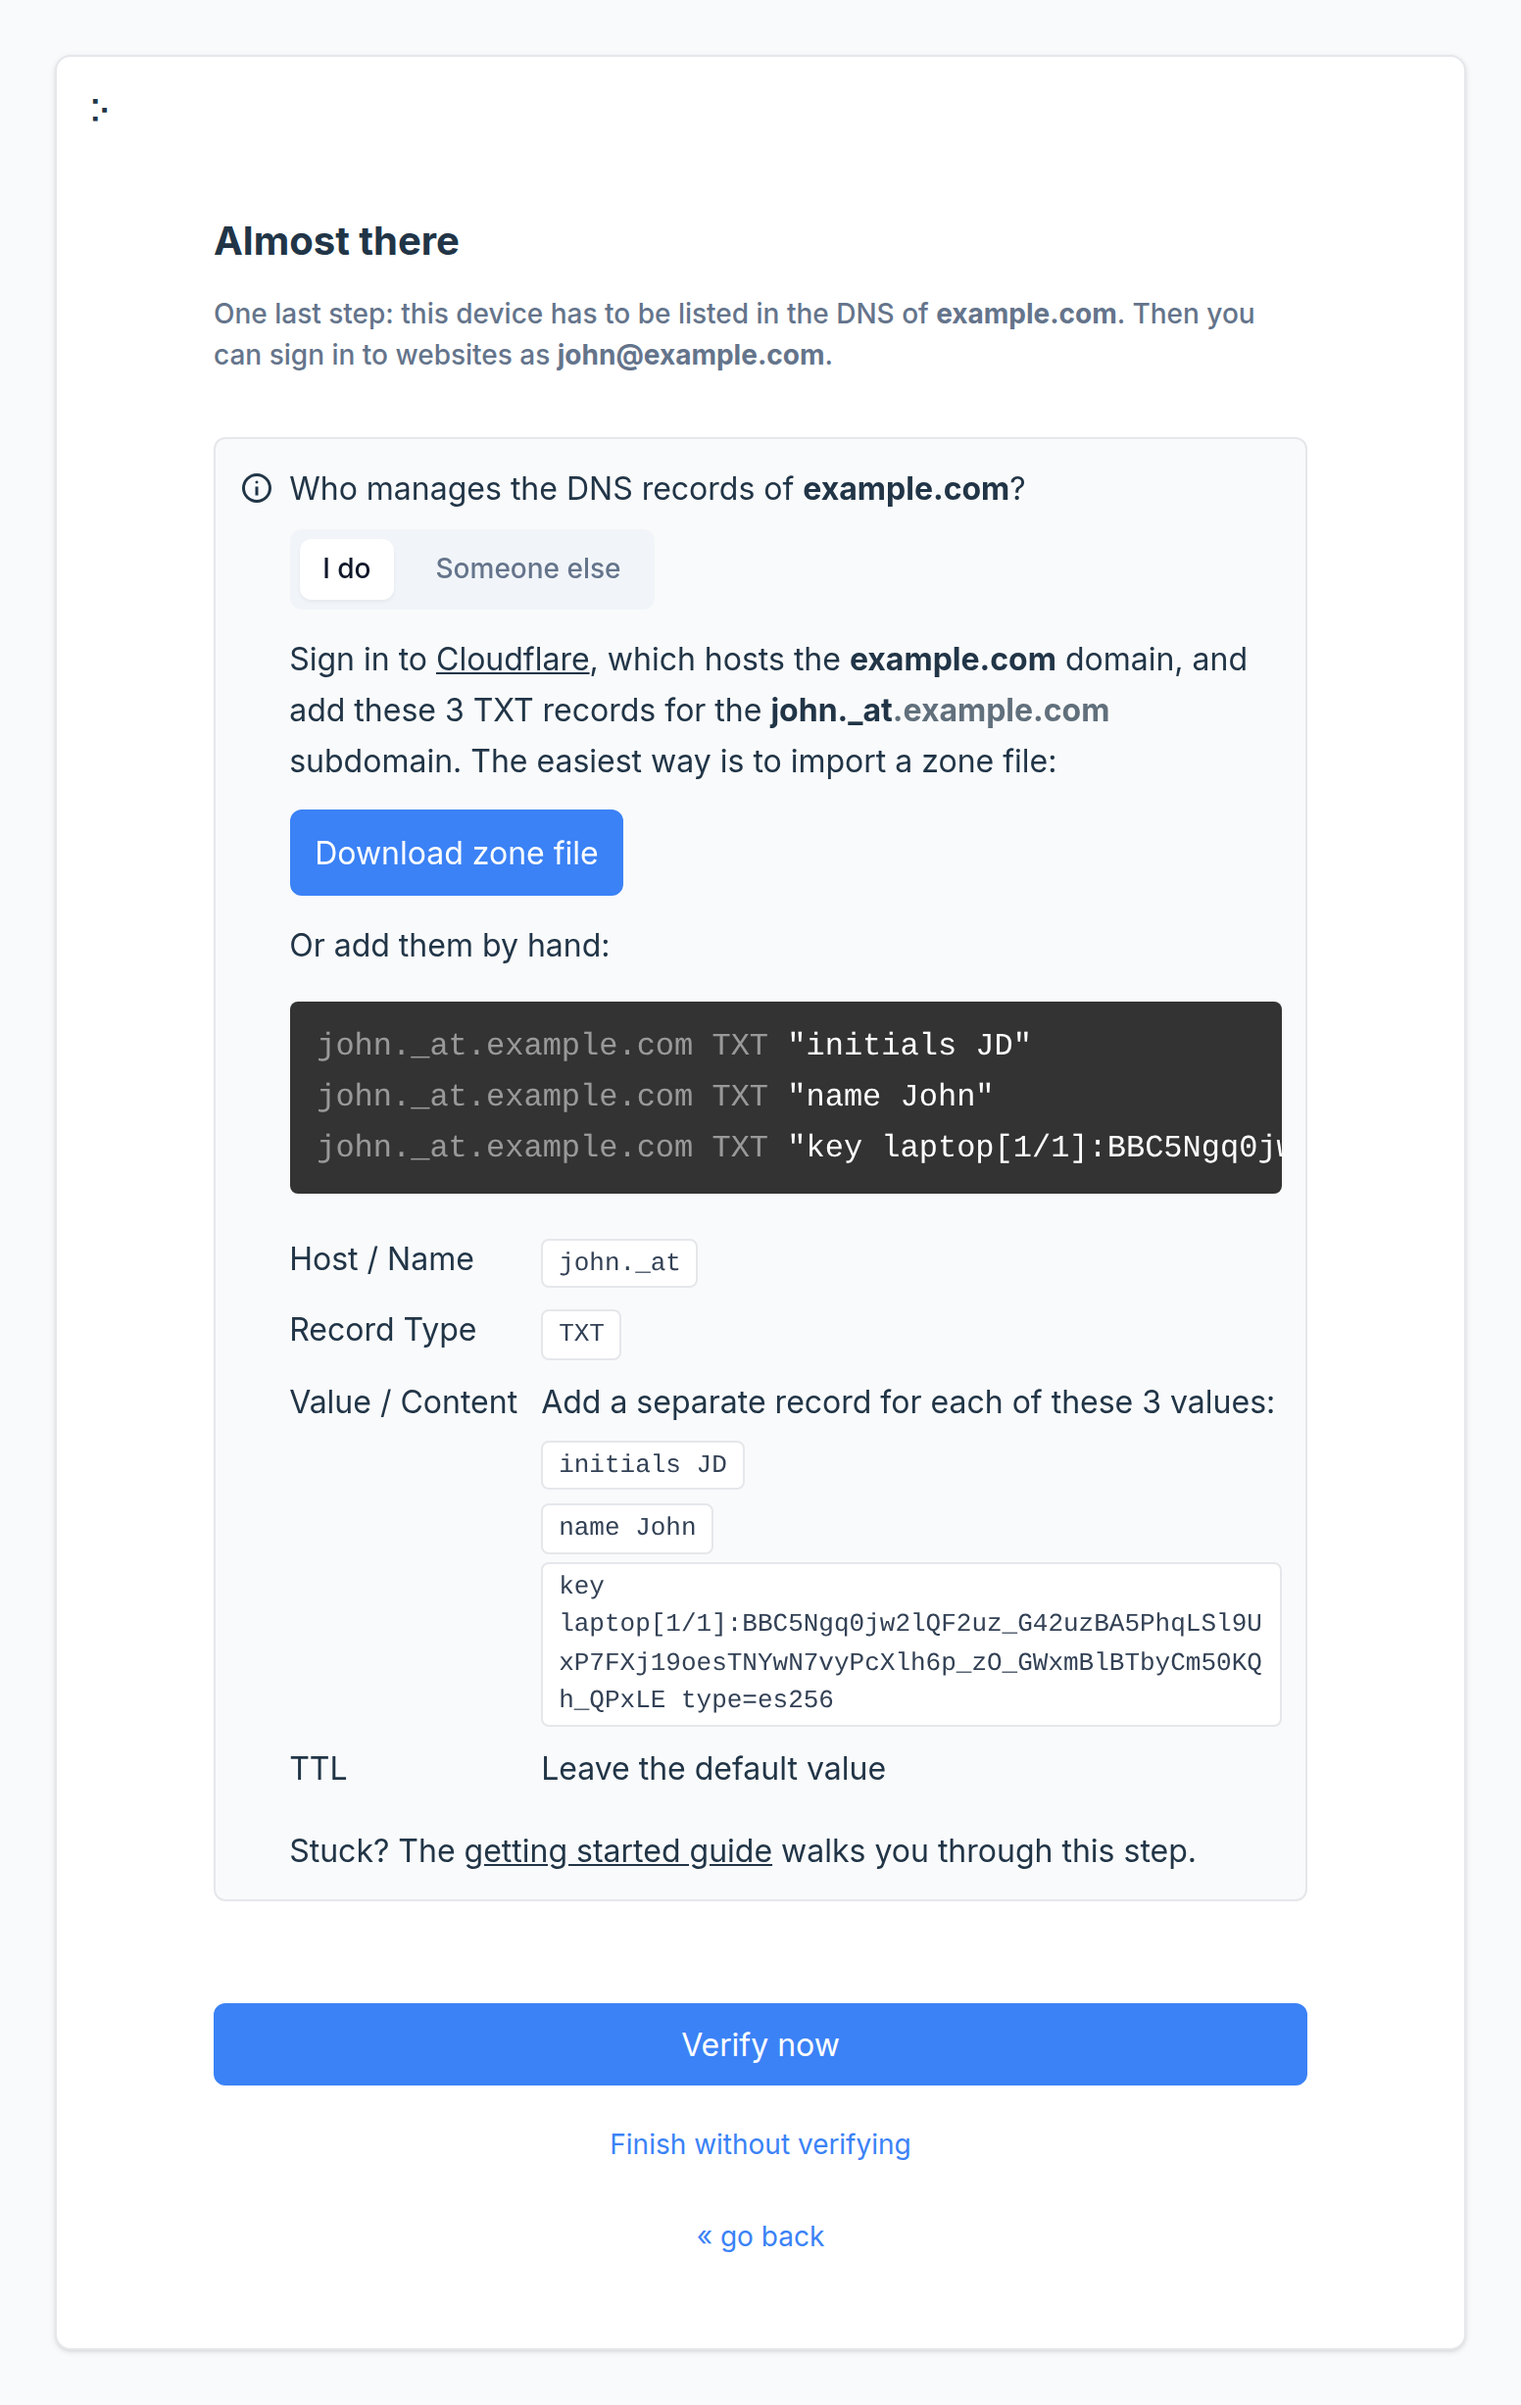
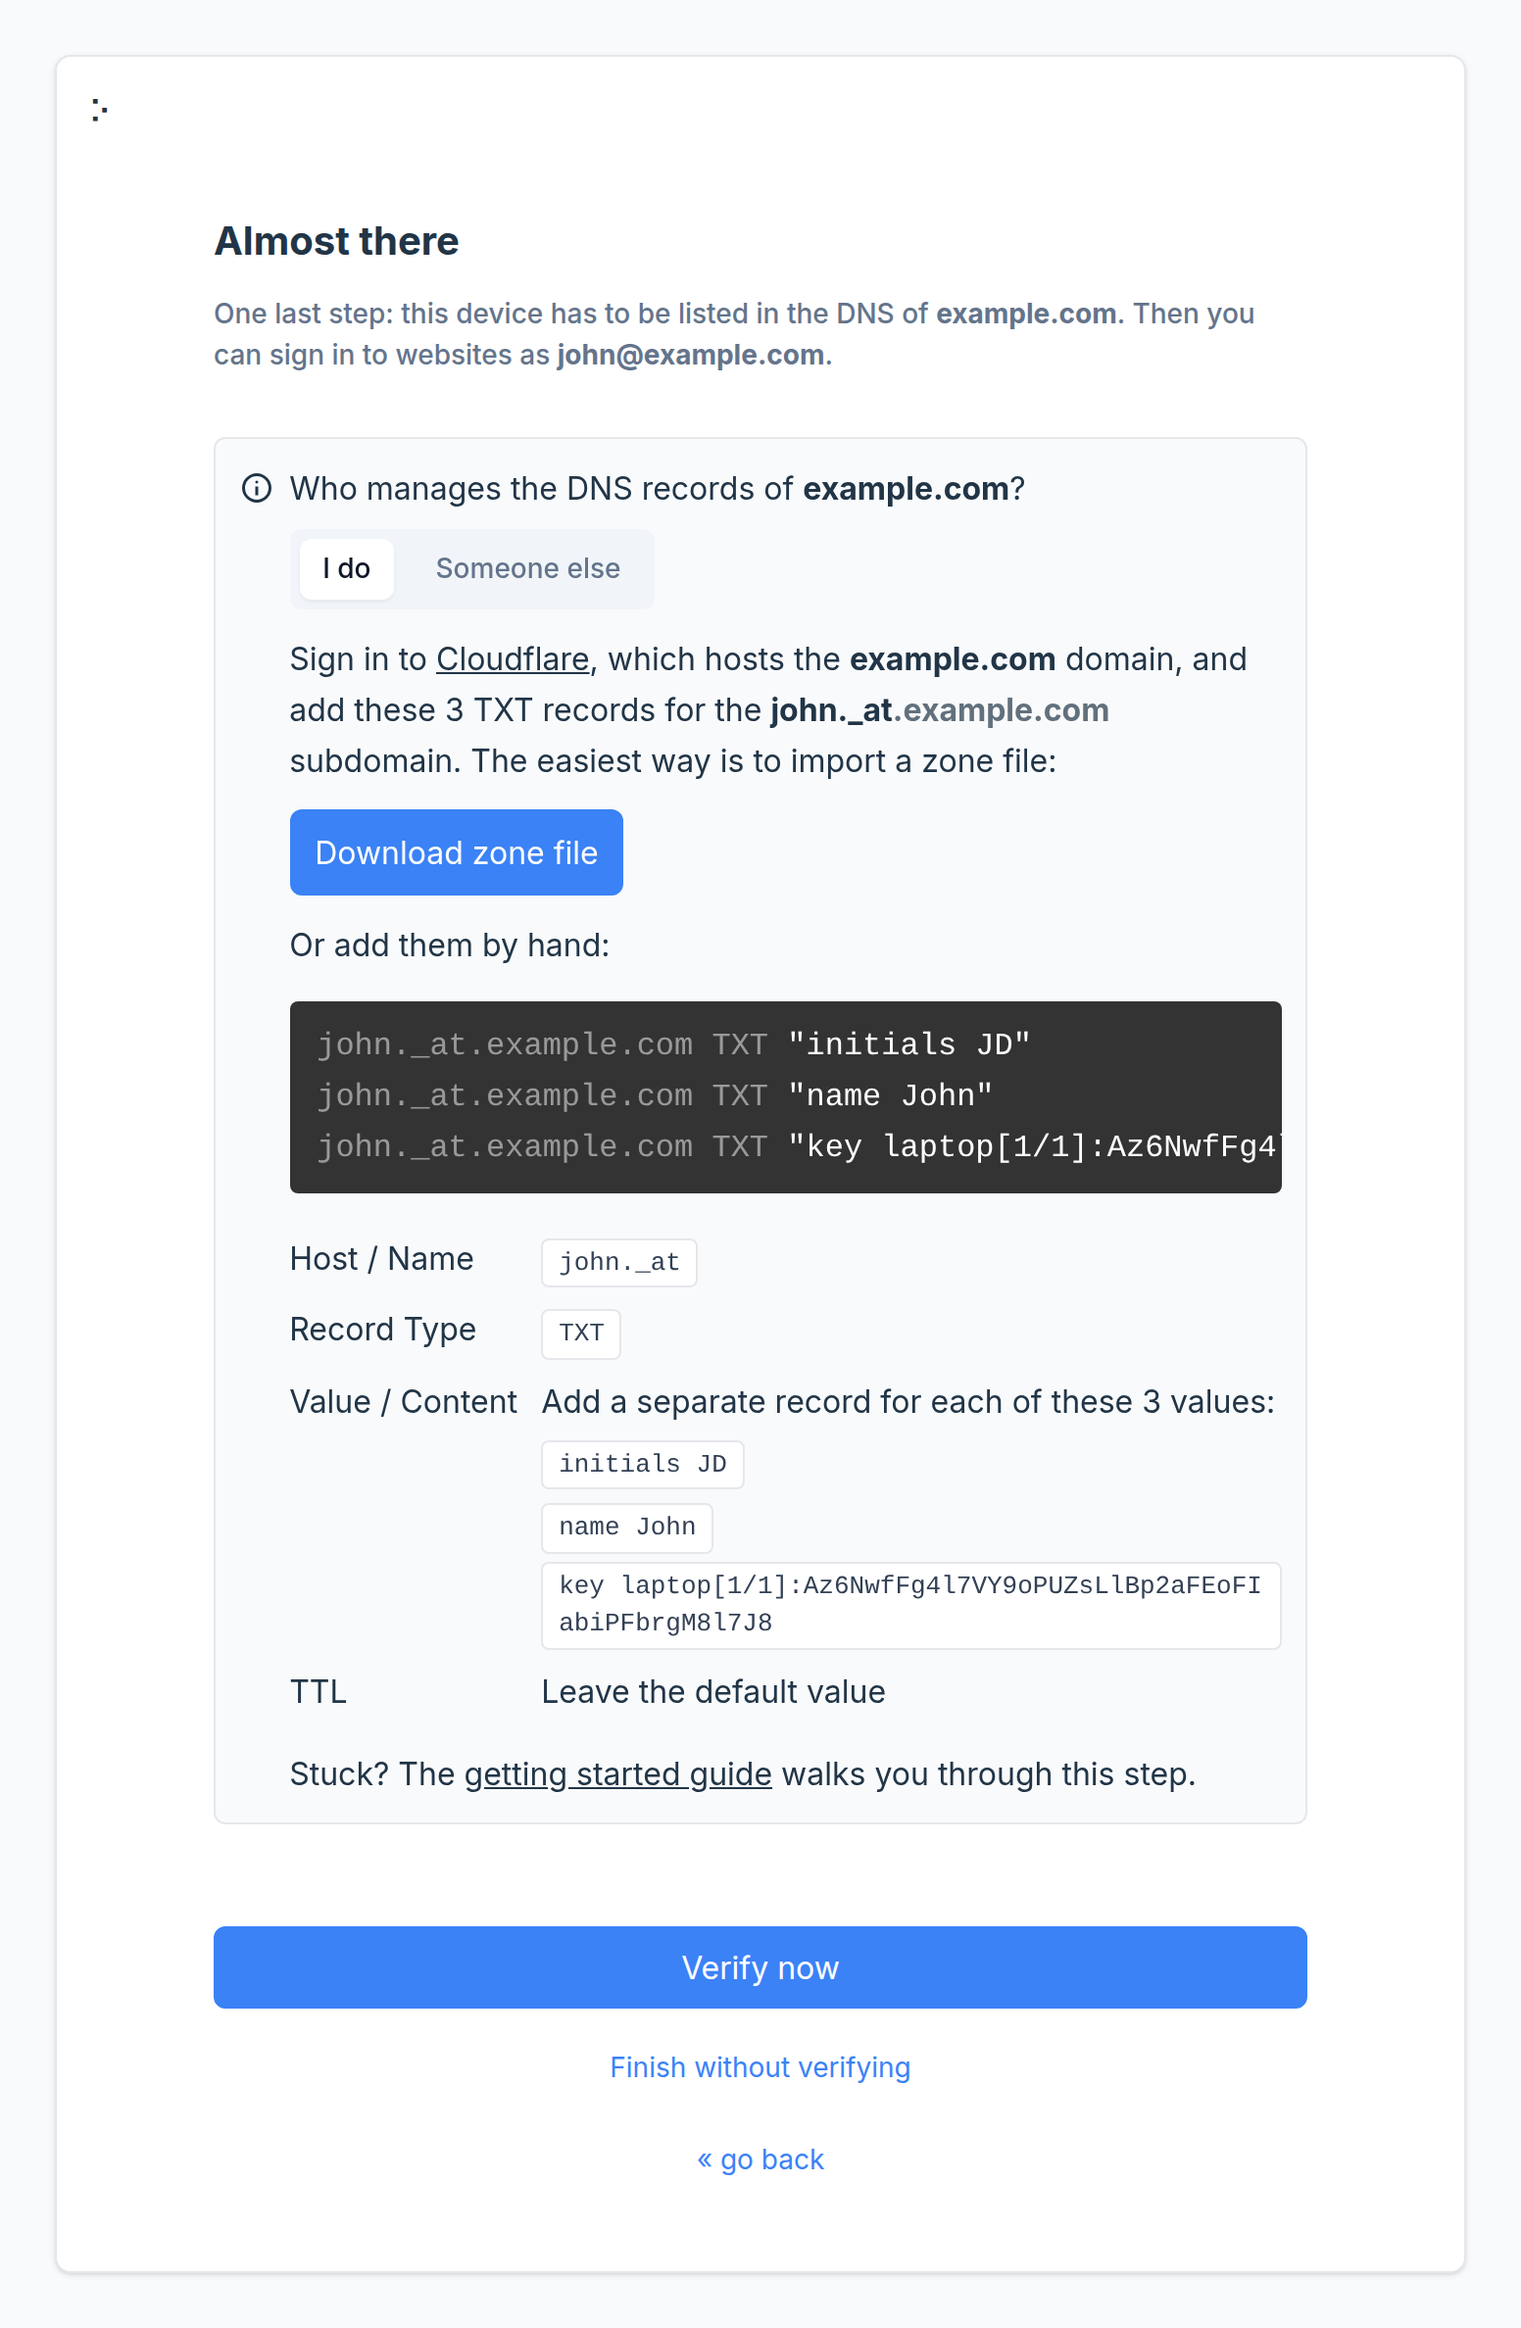
Publish keys as compressed P-256 points and leave the default type=es256 out of the records

diff --git a/src/signers/webauthn.js b/src/signers/webauthn.js
@@ -44,14 +44,14 @@ class WebauthnSigner extends BaseSigner {
       }
     });
 
-    // Extract the public key in triauth publishableKey format from the credentials.create
-    // response; older browsers (e.g. Safari < 15.5) lack getPublicKey(), so fall back to
+    // Extract the public key from the credentials.create response and publish it as the
+    // compressed point; older browsers (e.g. Safari < 15.5) lack getPublicKey(), so fall back to
     // digging the key out of the attestation object.
     const spki = credential.response.getPublicKey?.();
     const rawKey = spki
       ? CryptoHelpers.spkiToRaw(spki)
       : CryptoHelpers.attestationToRawP256(credential.response.attestationObject);
-    this.publishableKey = Triauth.Helpers.arrayBufferToBase64Url(rawKey);
+    this.publishableKey = Triauth.Helpers.arrayBufferToBase64Url(CryptoHelpers.compressP256(rawKey));
 
     const credentialRawId = credential.rawId;
     const credentialJSON = JSON.stringify(credential);

diff --git a/src/signers/passphrase.js b/src/signers/passphrase.js
@@ -5,6 +5,7 @@
  */
 
 import BaseSigner from "./base.js";
+import CryptoHelpers from "../lib/cryptoHelpers.js";
 import { CancelledError } from "../lib/errors.js";
 import { promptPassphrase } from "../lib/passphrasePrompt.js";
 
@@ -77,7 +78,7 @@ class PassphraseSigner extends BaseSigner {
       { name: 'AES-GCM', iv }
     );
 
-    this.publishableKey = Triauth.Helpers.arrayBufferToBase64Url(await crypto.subtle.exportKey('raw', keyPair.publicKey));
+    this.publishableKey = Triauth.Helpers.arrayBufferToBase64Url(CryptoHelpers.compressP256(await crypto.subtle.exportKey('raw', keyPair.publicKey)));
     this.data = {salt, iv, wrappedPrivateKey, iterations: PBKDF2_ITERATIONS};
 
     return this;
@@ -127,9 +128,9 @@ class PassphraseSigner extends BaseSigner {
     }
   }
 
+  // `type=es256` is the protocol default, so only `use` is published
   publishableKeyOptions() {
     return {
-      'type': 'es256',
       'use': this.use.join(',')
     }
   }

diff --git a/src/signers/default.js b/src/signers/default.js
@@ -5,6 +5,7 @@
  */
 
 import BaseSigner from "./base.js";
+import CryptoHelpers from "../lib/cryptoHelpers.js";
 class DefaultSigner extends BaseSigner {
 
   type = 'default';
@@ -26,7 +27,7 @@ class DefaultSigner extends BaseSigner {
       ['sign', 'verify']
     );
 
-    this.publishableKey = Triauth.Helpers.arrayBufferToBase64Url(await crypto.subtle.exportKey('raw', cryptoKeys.publicKey));
+    this.publishableKey = Triauth.Helpers.arrayBufferToBase64Url(CryptoHelpers.compressP256(await crypto.subtle.exportKey('raw', cryptoKeys.publicKey)));
     this.data = cryptoKeys;
 
     return this;
@@ -46,10 +47,9 @@ class DefaultSigner extends BaseSigner {
     return Triauth.Helpers.arrayBufferToBase64Url(signature);
   }
 
+  // No options: `type=es256` and a `use` of every verb are the protocol defaults
   publishableKeyOptions() {
-    return {
-      'type': 'es256'
-    }
+    return {}
   }
 
 }

diff --git a/src/lib/cryptoHelpers.js b/src/lib/cryptoHelpers.js
@@ -12,6 +12,17 @@ class CryptoHelpers {
     return bytes.slice(-65); // last 65 bytes are 0x04 || x (32) || y (32)
   }
 
+  // Returns the 33-byte compressed form of a 65-byte uncompressed P-256 point: a prefix
+  // that carries the parity of y, then x. Key records publish this form; it saves 32 bytes per key.
+  static compressP256(point) {
+    const bytes = new Uint8Array(point);
+    if (bytes.length !== 65 || bytes[0] !== 0x04) throw new Error('Not an uncompressed P-256 point');
+    const out = new Uint8Array(33);
+    out[0] = 0x02 | (bytes[64] & 1);
+    out.set(bytes.subarray(1, 33), 1);
+    return out;
+  }
+
   // Fallback for browsers whose AuthenticatorAttestationResponse lacks getPublicKey()
   // (e.g. Safari < 15.5): digs the ES256 public key out of the attestation object.
   // Minimal parsing in the spirit of the helpers here, not a general CBOR decoder -

diff --git a/src/components/SetupWizard.vue b/src/components/SetupWizard.vue
@@ -886,8 +886,8 @@ const dnsRecords = function(){
 
   // Keys
   for (const [idx, signer] of Object.entries(signers.value)) {
-    const publishableKeyOptions = Object.entries(signer.publishableKeyOptions()).map(([k,v]) => `${k}=${v}` ).join(' ');
-    entries.toAdd.push(`key ${deviceName.value}[${parseInt(idx, 10) + 1}/${ signers.value.length }]:${signer.publishableKey} ${publishableKeyOptions}`);
+    const publishableKeyOptions = Object.entries(signer.publishableKeyOptions()).map(([k,v]) => ` ${k}=${v}` ).join('');
+    entries.toAdd.push(`key ${deviceName.value}[${parseInt(idx, 10) + 1}/${ signers.value.length }]:${signer.publishableKey}${publishableKeyOptions}`);
   }
 
   return entries;
